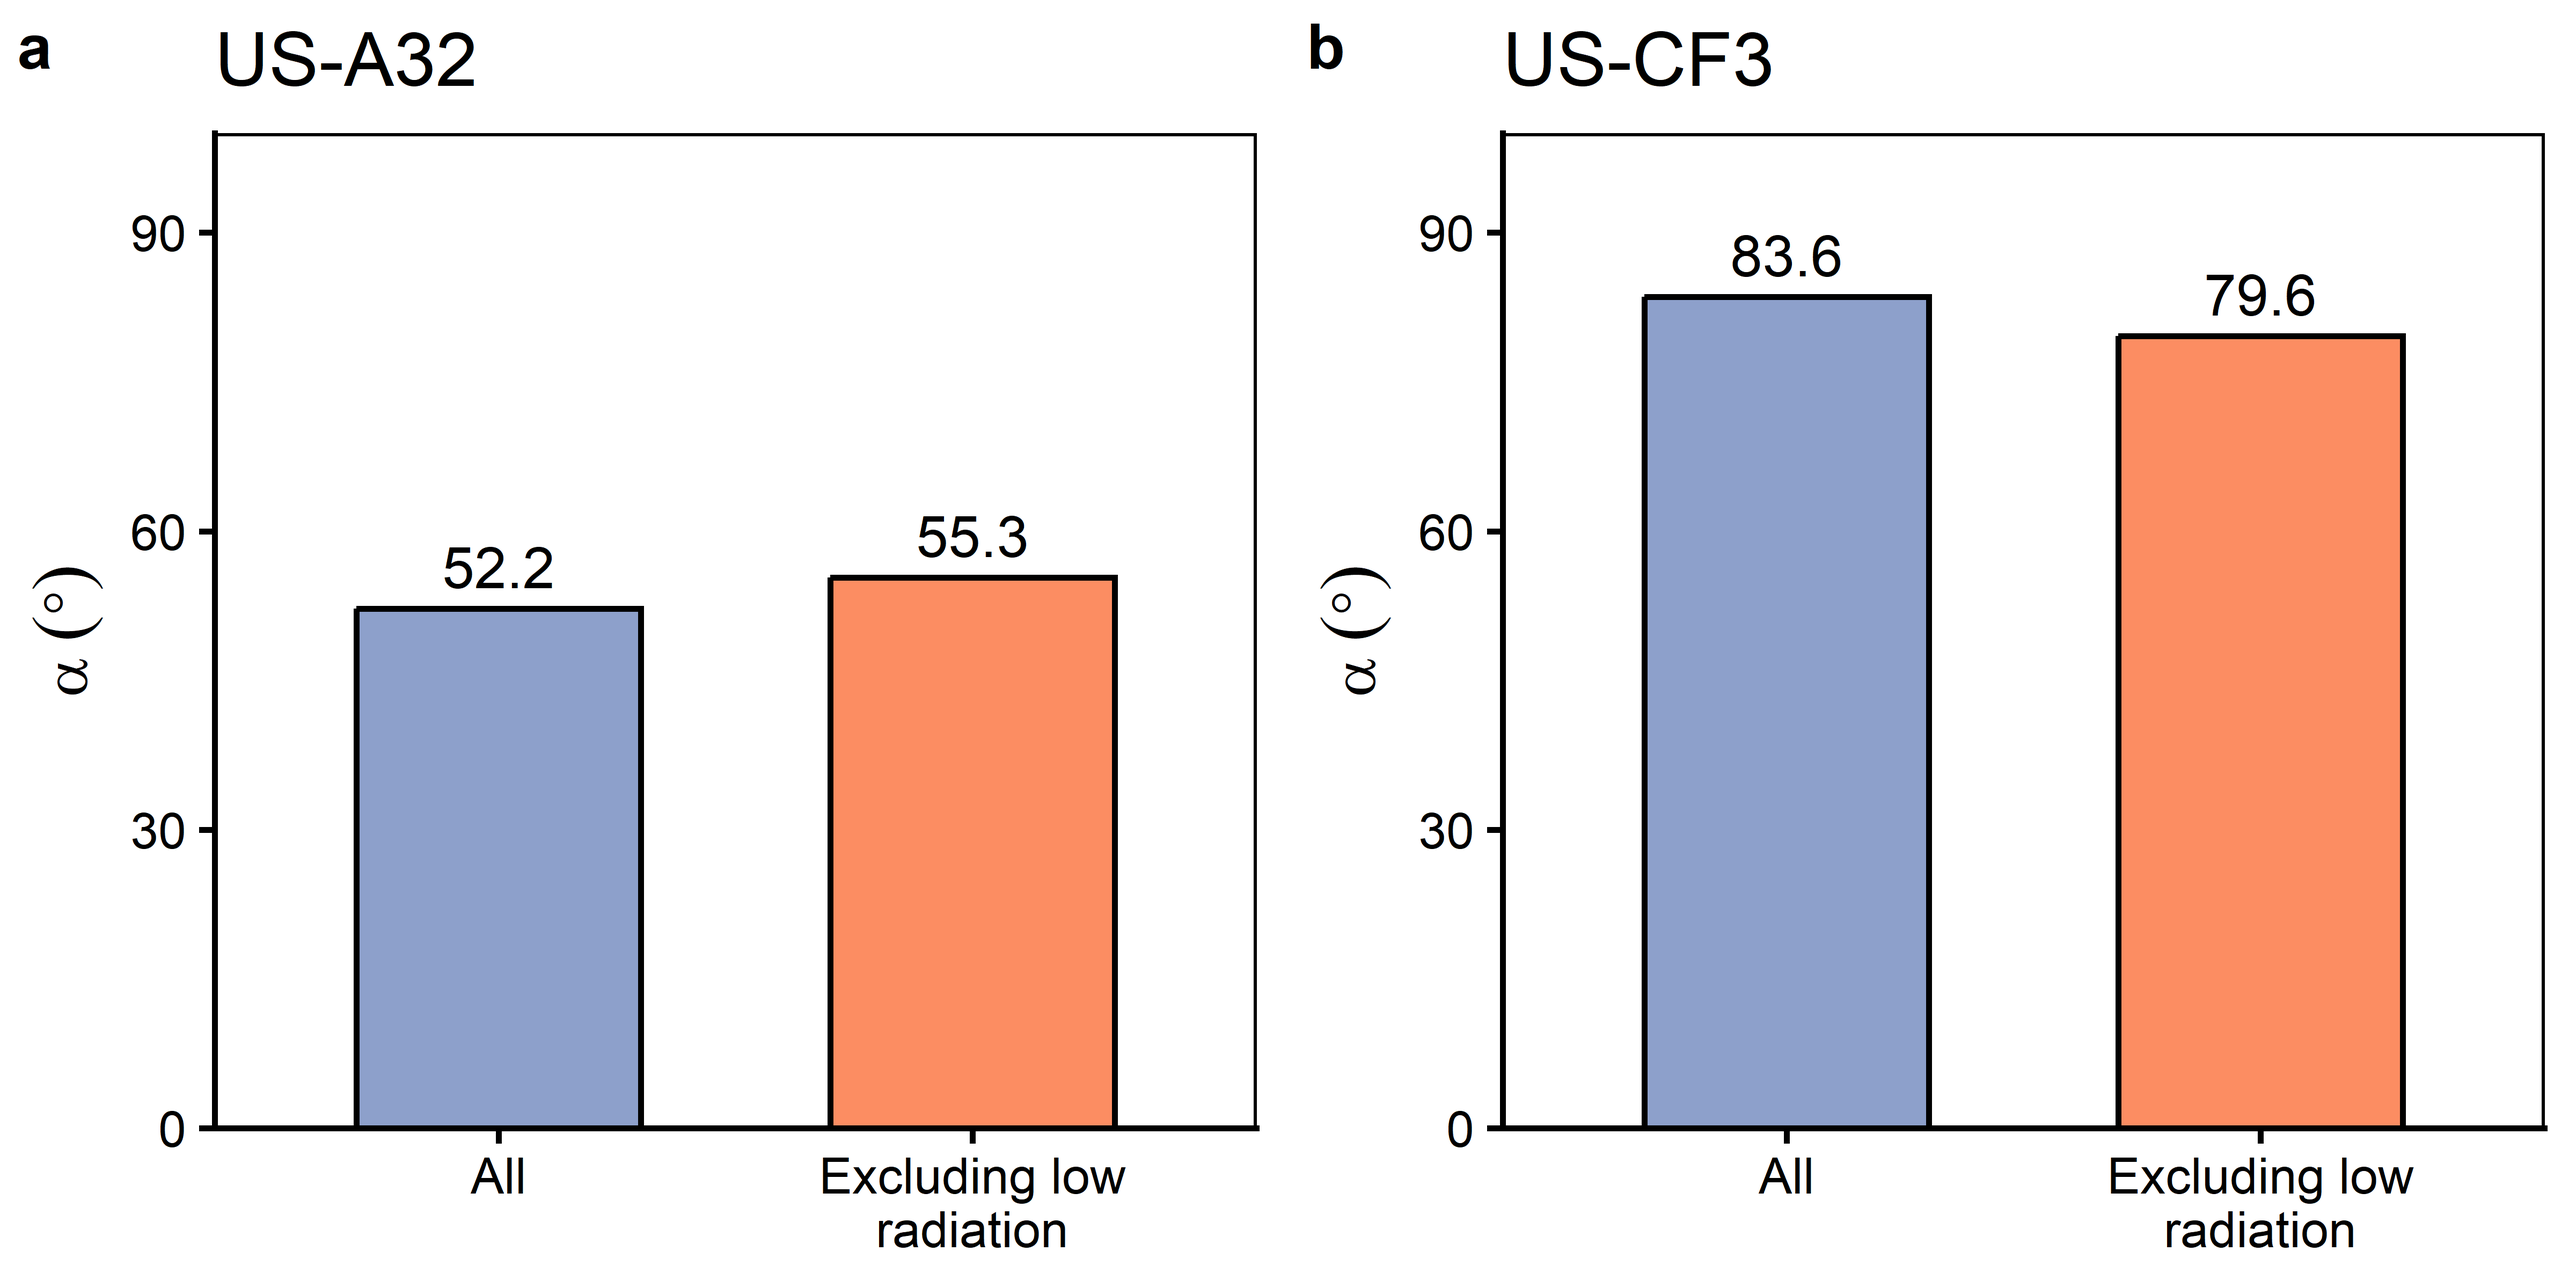
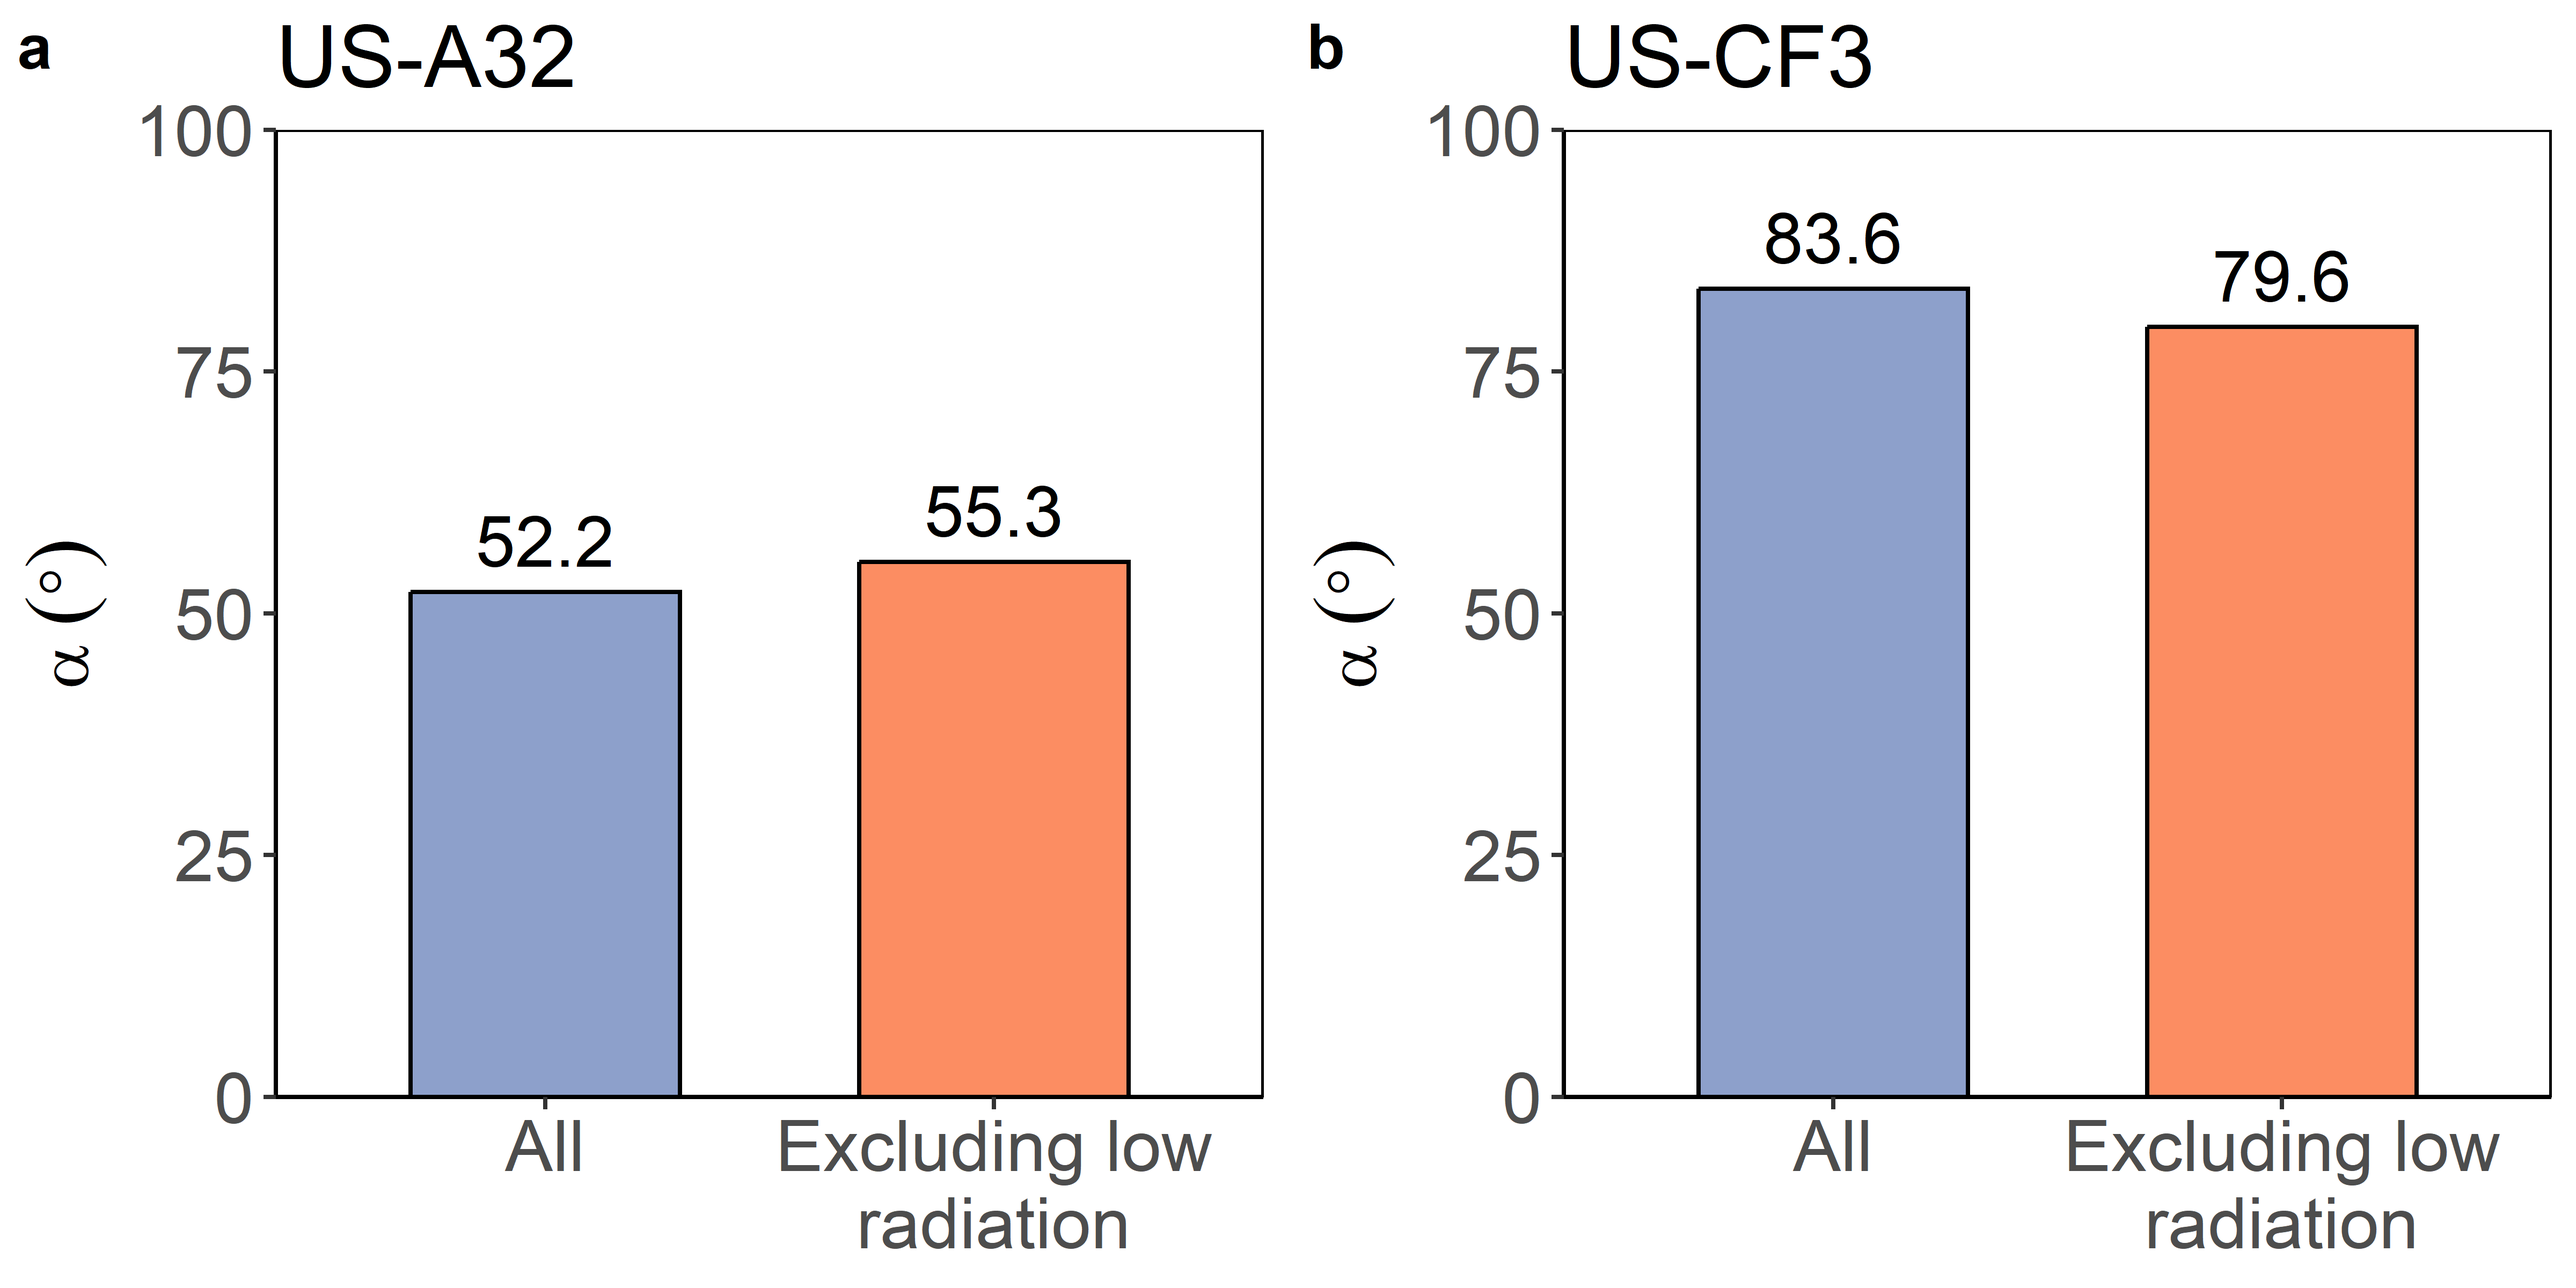
Update figures

diff --git a/GRL_Review_Codes/02_Results/AMF_alpha_netradiation_methods.md b/GRL_Review_Codes/02_Results/AMF_alpha_netradiation_methods.md
@@ -20,7 +20,7 @@ The all-observation boundary slopes reproduce the original saved values of 1.289
 7. Average Z in the 7x7 SM-VPD grid. Apply the original 3x3 Gaussian kernel with sigma=1 using raster::focal, including its original mean and edge handling. Construct weights from smoothed observation counts. Fit weighted linear regressions to interior row and column slices, requiring at least four valid cells per slice.
 8. Retain slices with R-squared >=0.8 and exclude statistically significant slopes with the incorrect direction (negative ESI-SM or positive ESI-VPD). Calculate each retained slice's zero crossing, discard crossings outside observed normalized SM-VPD support, and require at least three crossing points. Fit VPD_coordinate ~ SM_coordinate by ordinary least squares to those points.
 9. Calculate alpha = atan(slope)*180/pi. As in the original 20250202 script, no additional final contour filter is imposed in SM_VPD. Both comparisons also have contour R-squared above 0.5 and angles above -20 degrees. The summary includes slopes, intercepts, contour R-squared, normalization ranges, sample counts, and original threshold statistics.
-10. Preserve the original uncertainty routine: 100 bootstrap resamples of the boundary points, seed=1, with the original 1.5-IQR outlier removal before taking SD. This is not a bootstrap of independent observation datasets or a statistical test of the difference between the nested datasets. The figure shows point estimates only.
+10. Preserve the original uncertainty routine: 100 bootstrap resamples of the boundary points, seed=1, with the original 1.5-IQR outlier removal before taking SD. This is not a bootstrap of independent observation datasets or a statistical test of the difference between the nested datasets. At the user's request, the figure shows point estimates only. The bootstrap SD and explicit lower and upper one-SD bounds remain in the summary table. These are descriptive SD summaries, not 95% confidence intervals; the US-CF3 upper bound exceeds 90 degrees because the original linear SD is large and should not be interpreted as a feasible alpha interval.
 
 ## Interpretation and limitations
 
